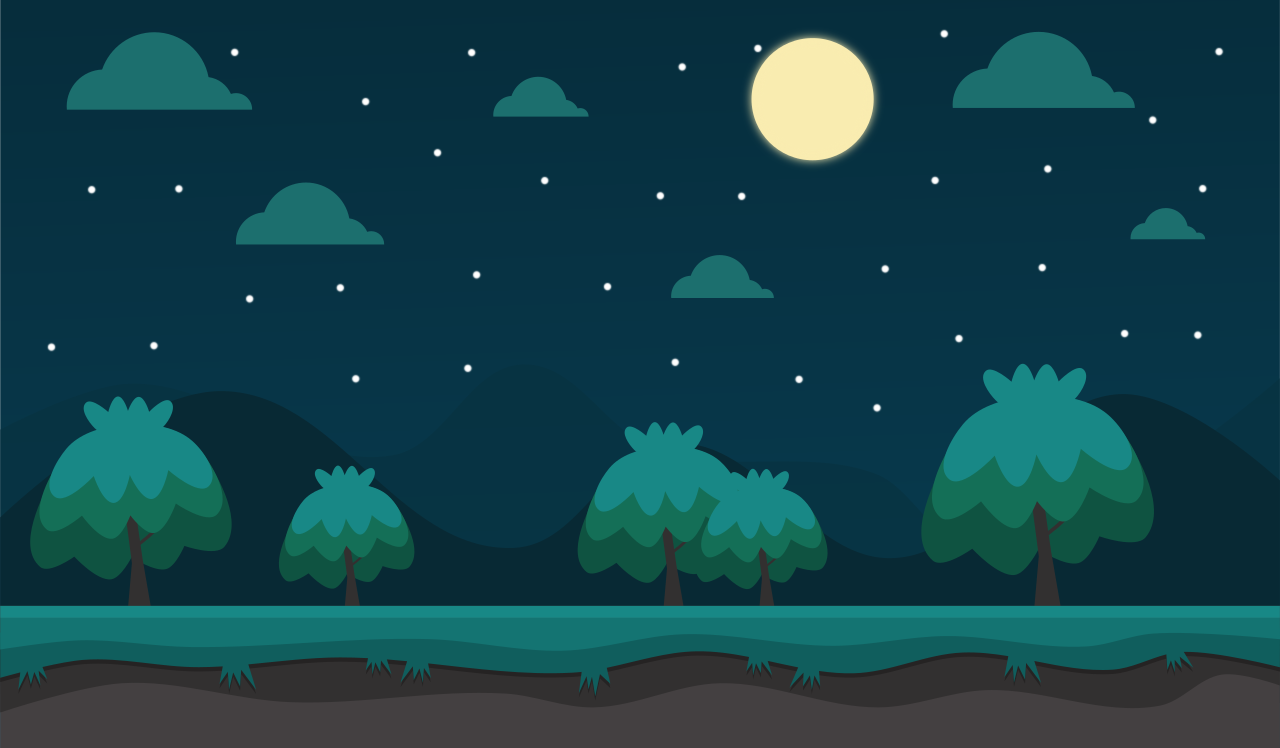
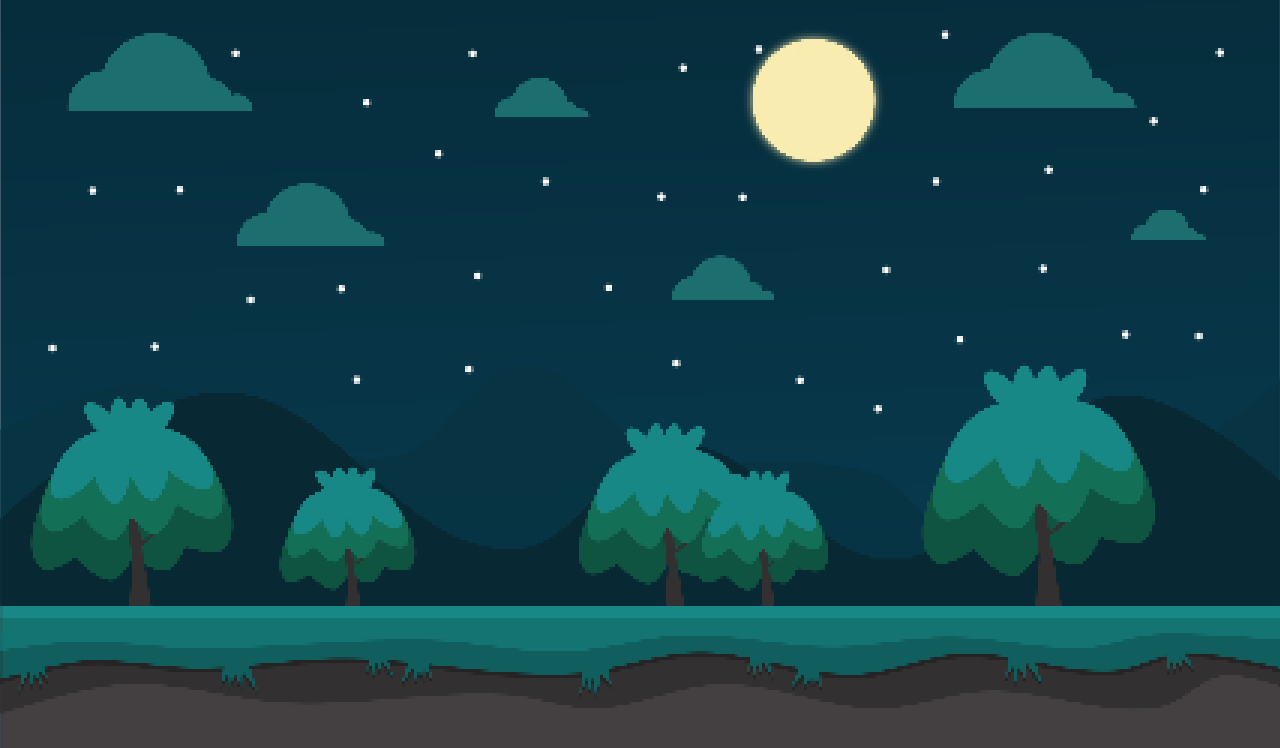
Added: bat, comments in code | Fixed: attack animation

diff --git a/Little_Fighter/Combat.xaml b/Little_Fighter/Combat.xaml
@@ -21,7 +21,7 @@
         </Grid.RowDefinitions>
 
         <!-- Background -->
-        <Image x:Name="bckgrnd" Grid.RowSpan="3" Grid.ColumnSpan="2" Source="img/enviroment.png" Stretch="UniformToFill"></Image>
+        <Image x:Name="bckgrnd" RenderOptions.BitmapScalingMode="NearestNeighbor" Grid.RowSpan="3" Grid.ColumnSpan="2" Source="img/enviroment.png" Stretch="UniformToFill"></Image>
 
         <!-- Stats -->
         <Label x:Name="playerHp" Content="100 HP" FontWeight="Bold" Margin="30,0" Foreground="White" FontSize="15"></Label>
@@ -47,8 +47,8 @@
         </WrapPanel>
 
         <!-- Heroes -->
-        <Image x:Name="player" RenderOptions.BitmapScalingMode="NearestNeighbor" Width="200" VerticalAlignment="Bottom" HorizontalAlignment="Left" Margin="150,0,0,0" Grid.Row="1" gif:ImageBehavior.AnimationCompleted="animEnd" gif:ImageBehavior.RepeatBehavior="Forever" gif:ImageBehavior.AnimatedSource="img/anim/idle.gif" Height="200"/>
-        <Image x:Name="enemy" RenderOptions.BitmapScalingMode="NearestNeighbor" Width="200" VerticalAlignment="Bottom" HorizontalAlignment="Right" Margin="0,0,150,0" Grid.Row="1" gif:ImageBehavior.AnimationCompleted="animEnd" gif:ImageBehavior.RepeatBehavior="Forever" gif:ImageBehavior.AnimatedSource="img/anim/idle.gif" Grid.Column="1" Height="200"/>
+        <Image x:Name="player" RenderOptions.BitmapScalingMode="NearestNeighbor" Width="200" VerticalAlignment="Bottom" HorizontalAlignment="Left" Margin="150,0,0,0" Grid.Row="1" Grid.ColumnSpan="2" gif:ImageBehavior.AnimationCompleted="animEnd" gif:ImageBehavior.RepeatBehavior="Forever" gif:ImageBehavior.AnimatedSource="img/anim/idle.gif" Height="200"/>
+        <Image x:Name="enemy" RenderOptions.BitmapScalingMode="NearestNeighbor" Width="200" VerticalAlignment="Bottom" HorizontalAlignment="Right" Margin="0,0,150,0" Grid.Row="1" Grid.ColumnSpan="2" gif:ImageBehavior.AnimationCompleted="animEndEnemy" gif:ImageBehavior.RepeatBehavior="Forever" gif:ImageBehavior.AnimatedSource="img/anim/bat_idle.gif" Height="200"/>
 
 
         <!-- Action Buttons -->

diff --git a/Little_Fighter/MainWindow.xaml b/Little_Fighter/MainWindow.xaml
@@ -7,7 +7,7 @@
         xmlns:local="clr-namespace:Little_Fighter"
         mc:Ignorable="d"
         x:Name="theWindow"
-        Title="MainWindow" Height="735" Width="1280" ResizeMode="CanResizeWithGrip">
+        Title="MainWindow" Height="779" Width="1280" ResizeMode="CanResizeWithGrip">
     <Grid x:Name="grid" Background="#FF060F0F">
         <Frame x:Name="mainFrame" Source="Combat.xaml"></Frame>
     </Grid>

diff --git a/Little_Fighter/Combat.xaml.cs b/Little_Fighter/Combat.xaml.cs
@@ -34,30 +34,37 @@ namespace Little_Fighter
             timer.Tick += new EventHandler(oneSecondDelay);
         }
 
-        GameData gameData = new GameData(new Player(), new Enemy());
+        // Objects
+        GameData gameData = new GameData(new Player(), new Bat());
         DispatcherTimer timer = new DispatcherTimer();
         List<string> consoleCommands = new List<string> { "help", "clear", "heal enemy", "kill enemy" };
 
+        // Bools
         bool isAnimating;
+        bool enemyIsAnimating;
         bool gameOver;
 
+        // Start game action
         void startGame()
         {
             statsEnemy.Maximum = gameData.Enemy.MaxHP;
             statsEnemy.Value = gameData.Enemy.HP;
             enemyHp.Content = gameData.Enemy.HP + " HP";
+            enemy.Width = gameData.Enemy.Size * 100;
 
             statsPlayer.Maximum = gameData.Player.MaxHP;
             statsEnemy.Value = gameData.Player.HP;
             playerHp.Content = gameData.Player.HP + " HP";
         }
 
+        // Delays
         void oneSecondDelay(object sender, EventArgs e)
         {
             isAnimating = false;
             timer.Stop();
         }
 
+        // PLAYER ANIMATIONS
         void fastAttackAnim()
         {
             BitmapImage image = new BitmapImage();
@@ -68,7 +75,7 @@ namespace Little_Fighter
             ImageBehavior.SetAnimatedSource(player, image);
             ImageBehavior.SetRepeatBehavior(player, new RepeatBehavior(1));
 
-            player.Margin = new Thickness(760, 0, 0, 0);
+            player.Margin = new Thickness(725 + (150 / gameData.Enemy.Size), 0, 0, 0);
 
             isAnimating = true;
         }
@@ -98,13 +105,25 @@ namespace Little_Fighter
             ImageBehavior.SetAnimatedSource(player, image);
         }
 
+        // ENEMY ANIMATIONS
+        void enemyIdleAnim()
+        {
+            BitmapImage image = new BitmapImage();
+            image.BeginInit();
+            image.UriSource = gameData.Enemy.Anims["idle"];
+            image.EndInit();
+
+            ImageBehavior.SetAnimatedSource(enemy, image);
+        }
+
+        // Animation end actions
         private void animEnd(object sender, RoutedEventArgs e)
         {
             player.Margin = new Thickness(150, 0, 0, 0);
             idleAnim();
         }
 
-        //Write info about attack in game console
+        // Write info about attack in game console
         private void attackInfo(int damage)
         {
             if (damage > 0)
@@ -119,6 +138,22 @@ namespace Little_Fighter
             gameConsoleInfo.ScrollToEnd();
         }
 
+        // Update anemy's life and stats
+        void updateEnemyStats()
+        {
+            if (gameData.Enemy.HP >= 0)
+            {
+                statsEnemy.Value = gameData.Enemy.HP;
+                enemyHp.Content = gameData.Enemy.HP + " HP";
+            }
+            else
+            {
+                statsEnemy.Value = 0;
+                enemyHp.Content = "0 HP";
+            }
+        }
+
+        // ACTION BUTTONS
         private void fastAttack_click(object sender, RoutedEventArgs e)
         {
             if (!isAnimating)
@@ -163,6 +198,7 @@ namespace Little_Fighter
             gameConsoleInput.Clear();
         }
 
+        // CONSOLE
         bool gameConsoleCommands(string command)
         {
             bool commandExist = false;
@@ -195,20 +231,6 @@ namespace Little_Fighter
             }
 
             return commandExist;
-        }
-
-        void updateEnemyStats()
-        {
-            if (gameData.Enemy.HP >= 0)
-            {
-                statsEnemy.Value = gameData.Enemy.HP;
-                enemyHp.Content = gameData.Enemy.HP + " HP";
-            }
-            else
-            {
-                statsEnemy.Value = 0;
-                enemyHp.Content = "0 HP";
-            }
         }
 
         void sendGameConsoleData()

diff --git a/Little_Fighter/Enemy.cs b/Little_Fighter/Enemy.cs
@@ -14,18 +14,6 @@ namespace Little_Fighter
         public int Attack { get; set; }
         public int Defense { get; set; }
         public int Speed { get; set; }
-
-        public Enemy()
-        {
-            this.Anims = new Dictionary<string, Uri>();
-            this.Anims.Add("idle", new Uri("img/anim/waiting.gif", UriKind.Relative));
-            this.Anims.Add("fastAttack", new Uri("img/anim/attack.gif", UriKind.Relative));
-
-            this.MaxHP = 20;
-            this.HP = this.MaxHP;
-            this.Attack = 1;
-            this.Defense = 1;
-            this.Speed = 1;
-        }
+        public int Size { get; set; }
     }
 }

diff --git a/Little_Fighter/Bat.cs b/Little_Fighter/Bat.cs
@@ -1,0 +1,24 @@
+using System;
+using System.Collections.Generic;
+using System.Linq;
+using System.Text;
+using System.Threading.Tasks;
+
+namespace Little_Fighter
+{
+    class Bat : Enemy
+    {
+        public Bat()
+        {
+            this.Anims = new Dictionary<string, Uri>();
+            this.Anims.Add("idle", new Uri("img/anim/bat_idle.gif", UriKind.Relative));
+
+            this.MaxHP = 20;
+            this.HP = this.MaxHP;
+            this.Attack = 1;
+            this.Defense = 1;
+            this.Speed = 1;
+            this.Size = 1;
+        }
+    }
+}
